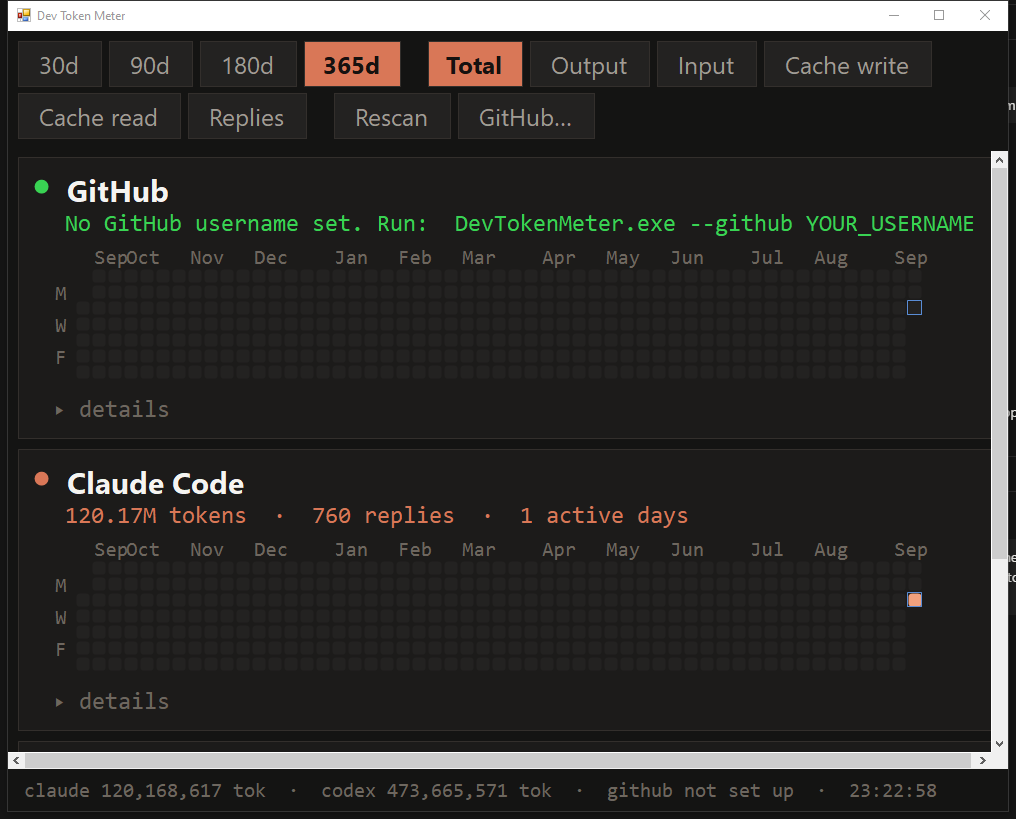
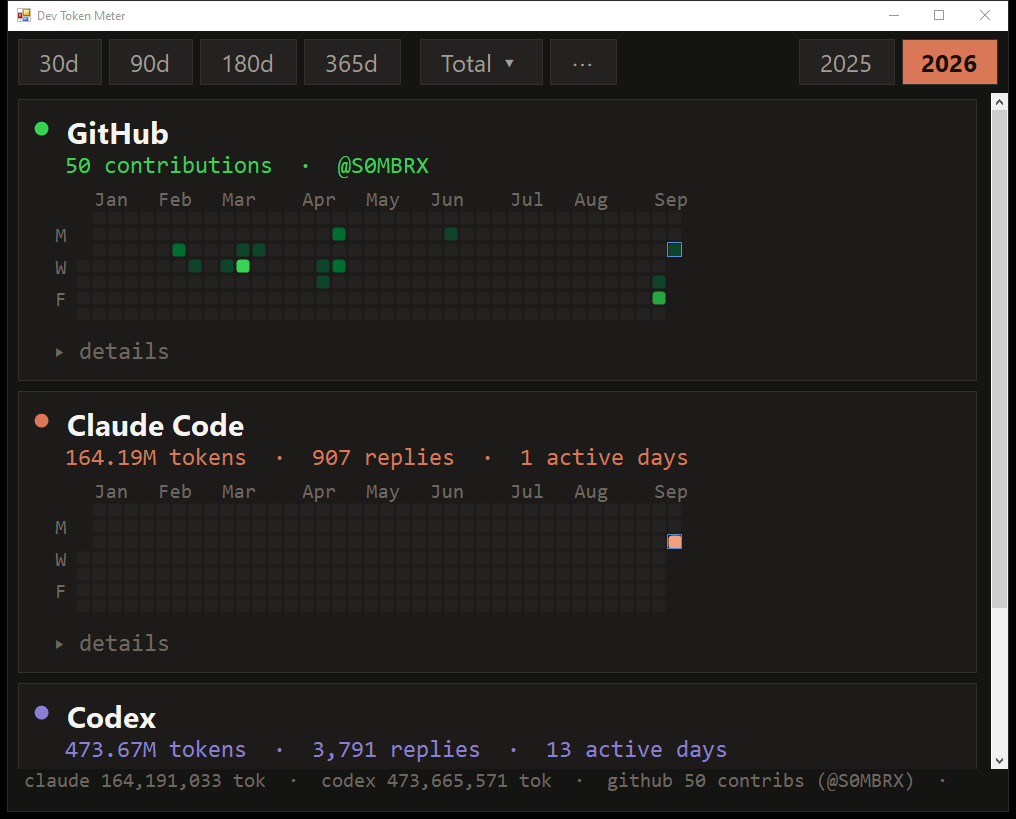
Fold the toolbar into menus and add GitHub-style year buttons
Day counts stay as buttons; the metric picker and rescan/username actions move
into dropdowns. Calendar years are right-aligned like GitHub's calendar and
switch the grids from a trailing window to Jan-Dec of that year.

The heatmap now takes an explicit start and end date rather than a trailing
day count, which is what makes the year view possible.

diff --git a/src/App.cs b/src/App.cs
@@ -68,8 +68,8 @@ namespace DevTokenMeter
         public const int Cell = 13, Gap = 3, Step = Cell + Gap;
         const int Gutter = 28, MonthBar = 24;
 
+        public DateTime Start = DateTime.Today.AddDays(-364);
         public DateTime End = DateTime.Today;
-        public int RangeDays = 365;
         public Color[] Ramp = Theme.Ramp("claude");
         public Func<string, long> GetValue = k => 0;
         public Func<string, int> GetLevel;            // when set, used instead of relative scaling
@@ -107,23 +107,17 @@ namespace DevTokenMeter
 
         string _pendingText;
 
-        public int Weeks
-        {
-            get
-            {
-                var start = End.AddDays(-(RangeDays - 1));
-                int lead = ((int)start.DayOfWeek + 6) % 7;
-                return (int)Math.Ceiling((lead + RangeDays) / 7.0);
-            }
-        }
+        public int RangeDays { get { return (int)(End - Start).TotalDays + 1; } }
+        int Lead { get { return ((int)Start.DayOfWeek + 6) % 7; } }
+
+        public int Weeks { get { return (int)Math.Ceiling((Lead + RangeDays) / 7.0); } }
 
         public Size Preferred { get { return new Size(Gutter + Weeks * Step + 8, MonthBar + 7 * Step + 4); } }
 
         long MaxValue()
         {
             long max = 0;
-            var start = End.AddDays(-(RangeDays - 1));
-            for (var d = start; d <= End; d = d.AddDays(1))
+            for (var d = Start; d <= End; d = d.AddDays(1))
             {
                 long v = GetValue(Key(d));
                 if (v > max) max = v;
@@ -148,8 +142,8 @@ namespace DevTokenMeter
             g.Clear(BackColor);
             g.SmoothingMode = SmoothingMode.AntiAlias;
 
-            var start = End.AddDays(-(RangeDays - 1));
-            int lead = ((int)start.DayOfWeek + 6) % 7;
+            var start = Start;
+            int lead = Lead;
             long max = GetLevel != null ? 0 : MaxValue();
 
             using (var dim = new SolidBrush(Theme.Faint))
@@ -205,11 +199,10 @@ namespace DevTokenMeter
             if (col < 0 || row < 0 || row > 6) return null;
             if ((p.X - Gutter) % Step > Cell || (p.Y - MonthBar) % Step > Cell) return null;
 
-            var start = End.AddDays(-(RangeDays - 1));
-            int lead = ((int)start.DayOfWeek + 6) % 7;
+            int lead = Lead;
             int i = col * 7 + row;
             if (i < lead || i >= lead + RangeDays) return null;
-            return Key(start.AddDays(i - lead));
+            return Key(Start.AddDays(i - lead));
         }
 
         protected override void OnMouseMove(MouseEventArgs e)
@@ -438,12 +431,17 @@ namespace DevTokenMeter
         readonly Section _cx = new Section("Codex", Theme.Codex, "codex");
         readonly Panel _host = new Panel();
         readonly Label _status = new Label();
-        readonly FlowLayoutPanel _bar = new FlowLayoutPanel();
+        readonly Panel _bar = new Panel();
+        readonly List<Control> _left = new List<Control>();
+        readonly List<Button> _years = new List<Button>();
+        Button _metricBtn;
 
         Agg _claude, _codex;
         GitHubData _github;
         string _metric = "total";
+        string _mode = "days";          // "days" = trailing window, "year" = calendar year
         int _range = 365;
+        int _year = DateTime.Today.Year;
         string _ghUser;
         volatile bool _busy;
 
@@ -464,23 +462,29 @@ namespace DevTokenMeter
             ClientSize = new Size(1000, 780);
 
             _bar.Dock = DockStyle.Top;
+            _bar.Height = 62;
             _bar.BackColor = Theme.Bg;
-            _bar.Padding = new Padding(10, 10, 10, 6);
-            _bar.WrapContents = true;               // 2x text no longer fits on one row
-            _bar.AutoSize = true;
-            _bar.AutoSizeMode = AutoSizeMode.GrowAndShrink;
-            _bar.AutoScroll = false;
 
-            foreach (var r in Ranges) _bar.Controls.Add(MakeToggle(r + "d", () => _range == r, () => { _range = r; Refresh2(false); }));
-            _bar.Controls.Add(Spacer(14));
-            foreach (var m in Metrics)
+            // left: the day counts, kept as visible buttons
+            foreach (var r in Ranges)
             {
-                var mm = m;
-                _bar.Controls.Add(MakeToggle(mm[1], () => _metric == mm[0], () => { _metric = mm[0]; Refresh2(false); }));
+                var rr = r;
+                var b = MakeToggle(rr + "d", () => _mode == "days" && _range == rr,
+                                   () => { _mode = "days"; _range = rr; Refresh2(false); });
+                _bar.Controls.Add(b);
+                _left.Add(b);
             }
-            _bar.Controls.Add(Spacer(14));
-            _bar.Controls.Add(MakeButton("Rescan", () => Load2(true)));
-            _bar.Controls.Add(MakeButton("GitHub…", PromptUser));
+
+            // everything else folded away into two menus
+            _metricBtn = MakeButton("Total ▾", () => ShowMetricMenu());
+            _bar.Controls.Add(_metricBtn);
+            _left.Add(_metricBtn);
+
+            var more = MakeButton("⋯", () => ShowMoreMenu());
+            _bar.Controls.Add(more);
+            _left.Add(more);
+
+            _bar.Resize += (s, e) => LayoutBar();
 
             _status.Dock = DockStyle.Bottom;
             _status.Height = 42;
@@ -505,9 +509,97 @@ namespace DevTokenMeter
             Shown += (s, e) => Load2(false);
         }
 
-        static Control Spacer(int w)
+        // day counts on the left, year buttons right-aligned like GitHub's calendar
+        void LayoutBar()
         {
-            return new Panel { Width = w, Height = 46, BackColor = Color.Transparent };
+            int x = 10;
+            foreach (var c in _left)
+            {
+                c.Location = new Point(x, 8);
+                x += c.Width + 7;
+                if (c == _left[Ranges.Length - 1]) x += 12;   // gap after the day counts
+            }
+            int right = _bar.ClientSize.Width - 10;
+            for (int i = _years.Count - 1; i >= 0; i--)
+            {
+                right -= _years[i].Width;
+                _years[i].Location = new Point(right, 8);
+                right -= 7;
+            }
+        }
+
+        void BuildYearButtons()
+        {
+            foreach (var b in _years) { _bar.Controls.Remove(b); b.Dispose(); }
+            _years.Clear();
+            _toggles.RemoveAll(t => t.Item1.IsDisposed);
+
+            int first = DateTime.Today.Year;
+            Action<IEnumerable<string>> note = keys =>
+            {
+                foreach (var k in keys)
+                {
+                    int y;
+                    if (k.Length >= 4 && int.TryParse(k.Substring(0, 4), out y) && y < first) first = y;
+                }
+            };
+            if (_claude != null) note(_claude.Days.Keys);
+            if (_codex != null) note(_codex.Days.Keys);
+            if (_github != null && _github.Available) note(_github.Days.Keys);
+
+            for (int y = DateTime.Today.Year; y >= first; y--)
+            {
+                var yy = y;
+                var b = MakeToggle(yy.ToString(CultureInfo.InvariantCulture),
+                                   () => _mode == "year" && _year == yy,
+                                   () => { _mode = "year"; _year = yy; Refresh2(false); });
+                _bar.Controls.Add(b);
+                _years.Add(b);
+            }
+            _years.Reverse();   // oldest first, so the newest ends up rightmost
+            LayoutBar();
+        }
+
+        void ShowMetricMenu()
+        {
+            var menu = DarkMenu();
+            foreach (var m in Metrics)
+            {
+                var mm = m;
+                var it = new ToolStripMenuItem(mm[1]);
+                it.Checked = _metric == mm[0];
+                it.Click += (s, e) => { _metric = mm[0]; _metricBtn.Text = mm[1] + " ▾"; Refresh2(false); };
+                menu.Items.Add(it);
+            }
+            menu.Show(_metricBtn, new Point(0, _metricBtn.Height));
+        }
+
+        void ShowMoreMenu()
+        {
+            var menu = DarkMenu();
+            var rescan = new ToolStripMenuItem("Rescan");
+            rescan.Click += (s, e) => Load2(true);
+            var gh = new ToolStripMenuItem("GitHub username…");
+            gh.Click += (s, e) => PromptUser();
+            var refresh = new ToolStripMenuItem("Refresh GitHub now");
+            refresh.Click += (s, e) => Load2(true);
+            menu.Items.Add(rescan);
+            menu.Items.Add(refresh);
+            menu.Items.Add(new ToolStripSeparator());
+            menu.Items.Add(gh);
+            var src = _left[_left.Count - 1];
+            menu.Show(src, new Point(0, src.Height));
+        }
+
+        static ContextMenuStrip DarkMenu()
+        {
+            var m = new ContextMenuStrip();
+            m.BackColor = Theme.Panel2;
+            m.ForeColor = Theme.Fg;
+            m.Font = Theme.UI;
+            m.ShowImageMargin = false;
+            m.RenderMode = ToolStripRenderMode.System;
+            return m;
         }
 
         readonly List<Tuple<Button, Func<bool>>> _toggles = new List<Tuple<Button, Func<bool>>>();
@@ -643,9 +735,11 @@ namespace DevTokenMeter
                 FillTokenDetails(_cl, _claude);
                 FillTokenDetails(_cx, _codex);
                 FillGhDetails();
+                BuildYearButtons();
             }
 
             SyncToggles();
+            LayoutBar();
             Restack();
             _cl.Map.Invalidate(); _cx.Map.Invalidate(); _gh.Map.Invalidate();
             _cl.Details.Invalidate(); _cx.Details.Invalidate(); _gh.Details.Invalidate();
@@ -657,10 +751,25 @@ namespace DevTokenMeter
                 "  ·  " + DateTime.Now.ToString("HH:mm:ss");
         }
 
+        void WindowFor(out DateTime start, out DateTime end)
+        {
+            if (_mode == "year")
+            {
+                start = new DateTime(_year, 1, 1);
+                end = _year == DateTime.Today.Year ? DateTime.Today : new DateTime(_year, 12, 31);
+            }
+            else
+            {
+                end = DateTime.Today;
+                start = end.AddDays(-(_range - 1));
+            }
+        }
+
         void WireTokens(Section sec, Agg a)
         {
-            sec.Map.RangeDays = _range;
-            sec.Map.End = DateTime.Today;
+            DateTime s, e;
+            WindowFor(out s, out e);
+            sec.Map.Start = s; sec.Map.End = e;
             sec.Map.GetLevel = null;
             sec.Map.GetValue = k => { Day d; return a.Days.TryGetValue(k, out d) ? DayVal(d) : 0; };
             sec.Map.GetTooltip = k => { Day d; a.Days.TryGetValue(k, out d); return DayTip(k, d); };
@@ -670,8 +779,9 @@ namespace DevTokenMeter
 
         void WireGitHub()
         {
-            _gh.Map.RangeDays = _range;
-            _gh.Map.End = DateTime.Today;
+            DateTime s, e;
+            WindowFor(out s, out e);
+            _gh.Map.Start = s; _gh.Map.End = e;
             if (_github == null || !_github.Available)
             {
                 _gh.Map.GetValue = k => 0;

diff --git a/README.md b/README.md
@@ -26,9 +26,12 @@ Three grids, top to bottom:
 Each grid has a collapsed **details** panel with stat tiles, a by-model and
 by-project breakdown, and your heaviest sessions.
 
-The toolbar switches the window (30d / 90d / 180d / 365d) and the metric the
-token grids are coloured by (total, output, input, cache write, cache read,
-replies). GitHub always shows contributions.
+The toolbar keeps the day counts (30d / 90d / 180d / 365d) as buttons and folds
+everything else away: a **Total ▾** menu picks the metric the token grids are
+coloured by (total, output, input, cache write, cache read, replies), and **⋯**
+holds rescan and the GitHub username. Calendar years sit right-aligned, the way
+GitHub lays them out — click one to see Jan–Dec for that year instead of a
+trailing window. GitHub always shows contributions regardless of the metric.
 
 ## Requirements
 
